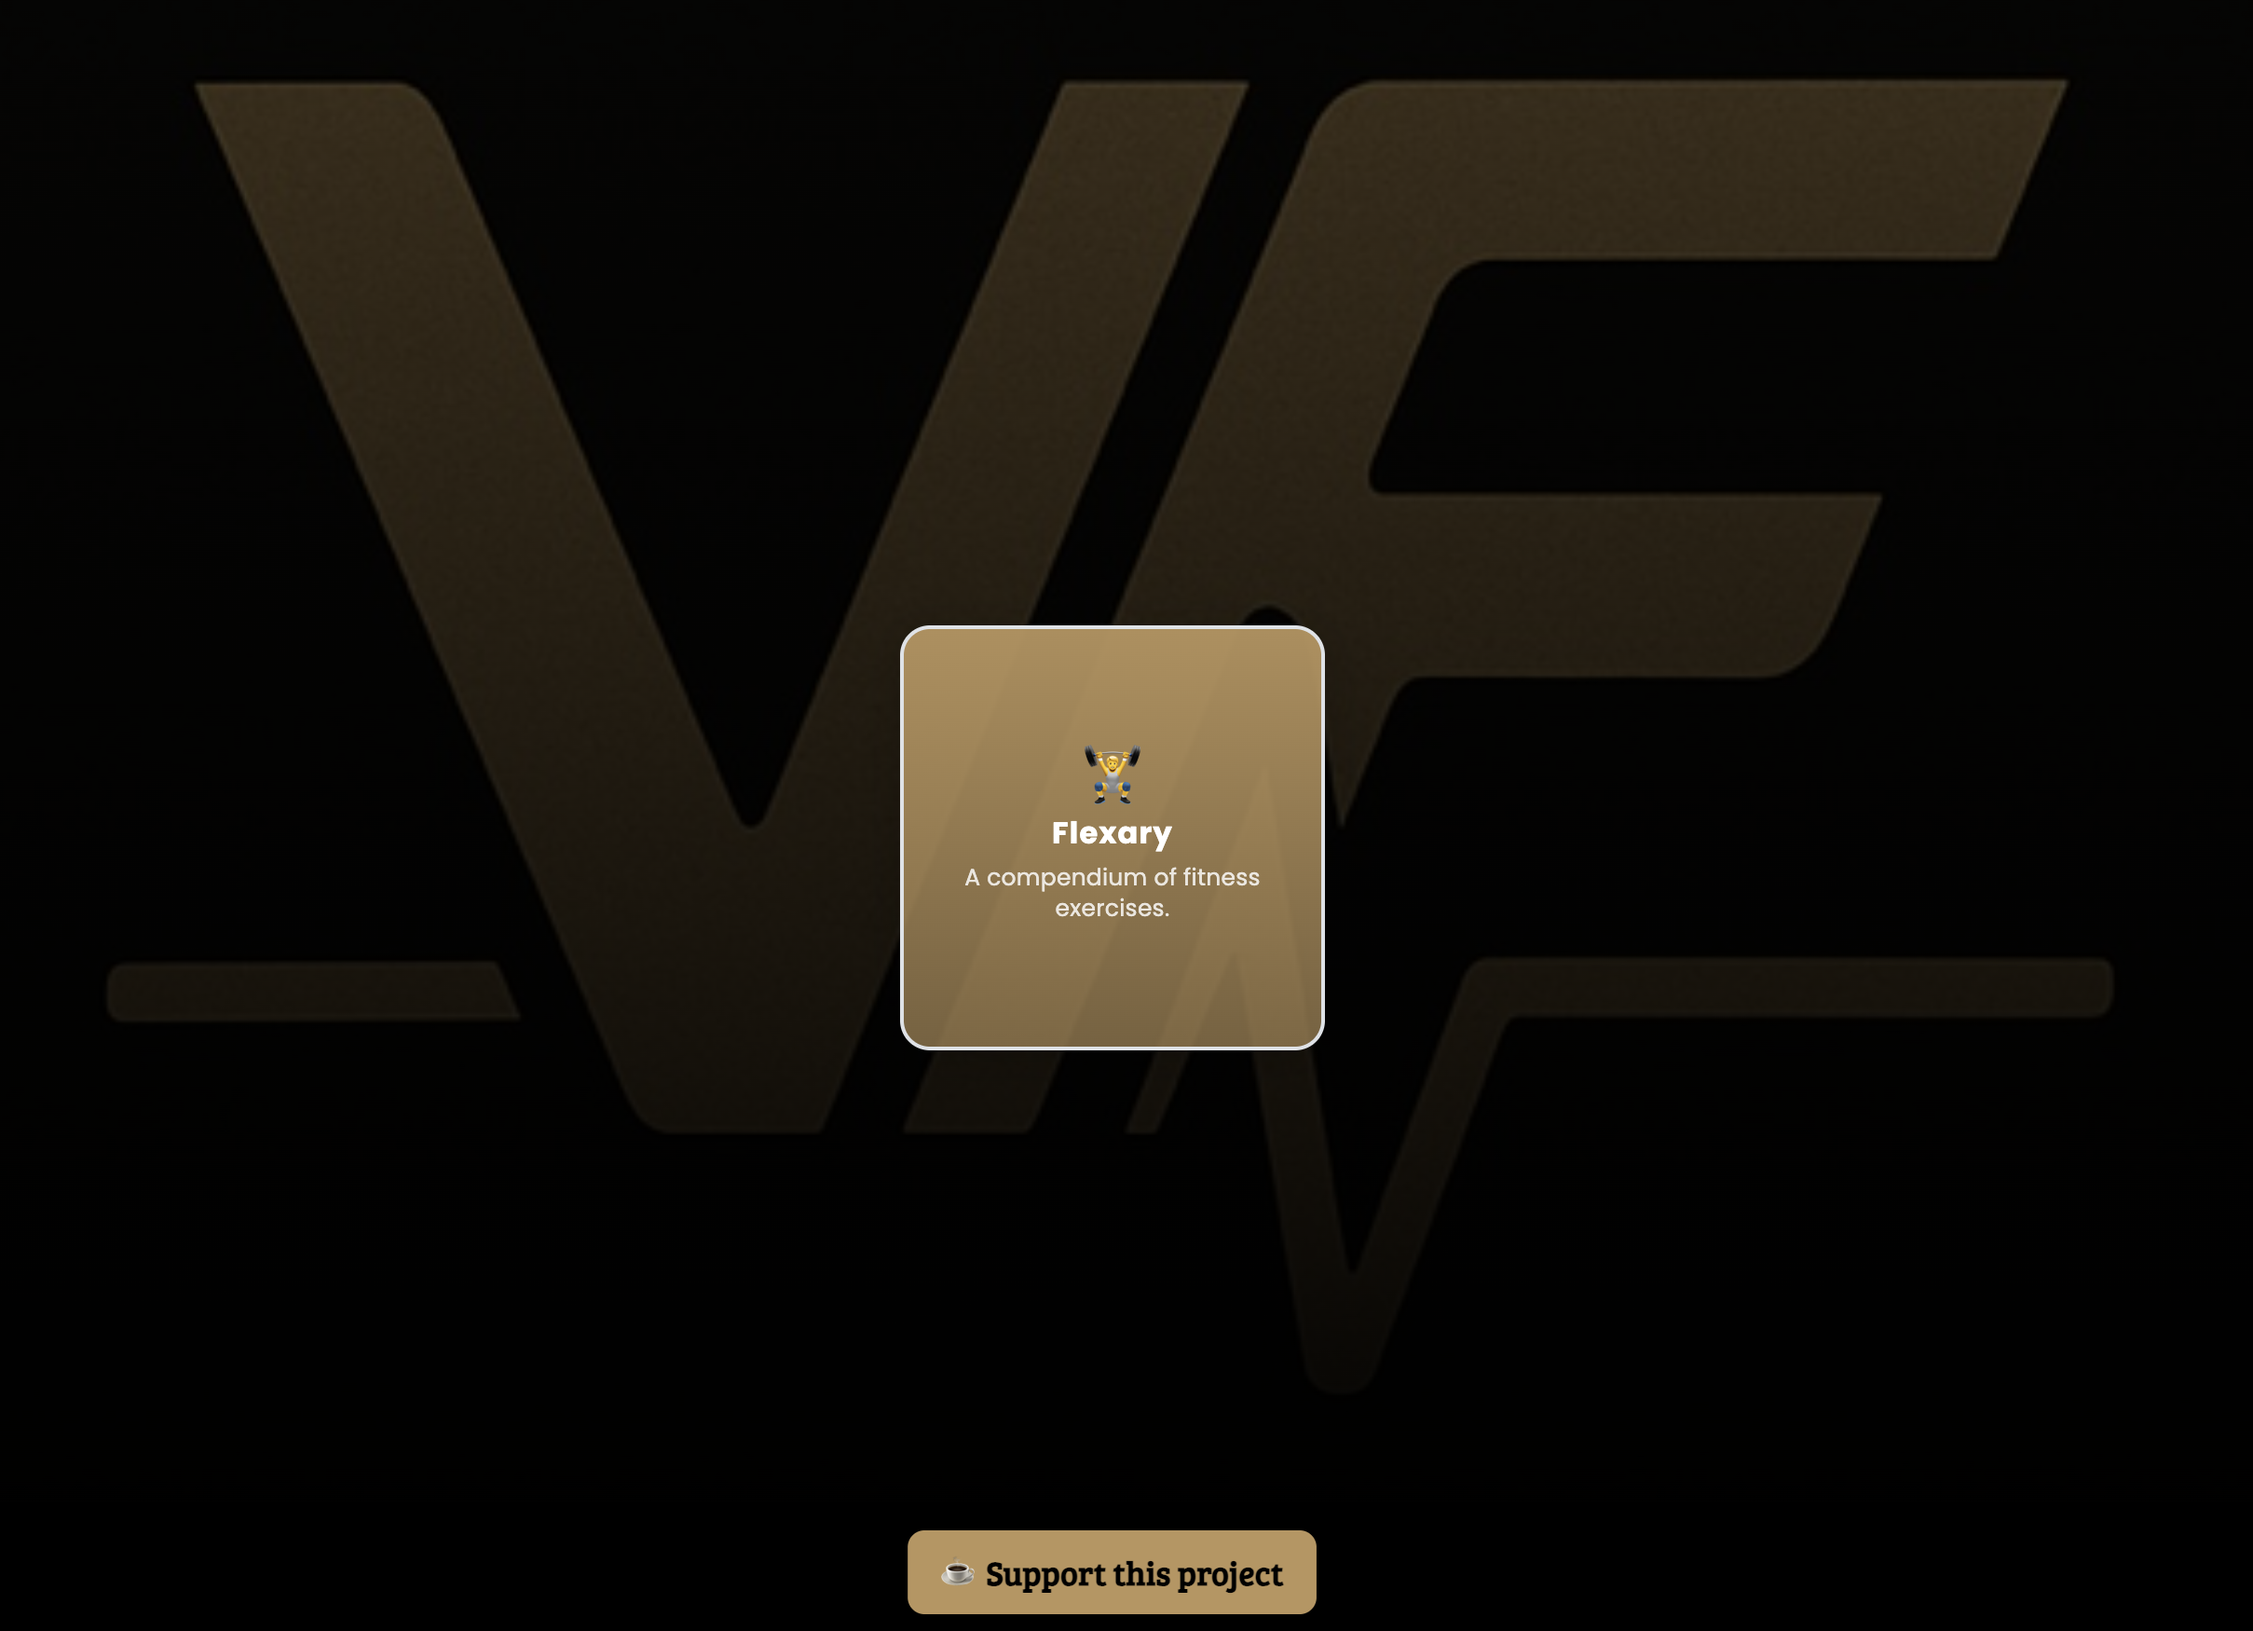
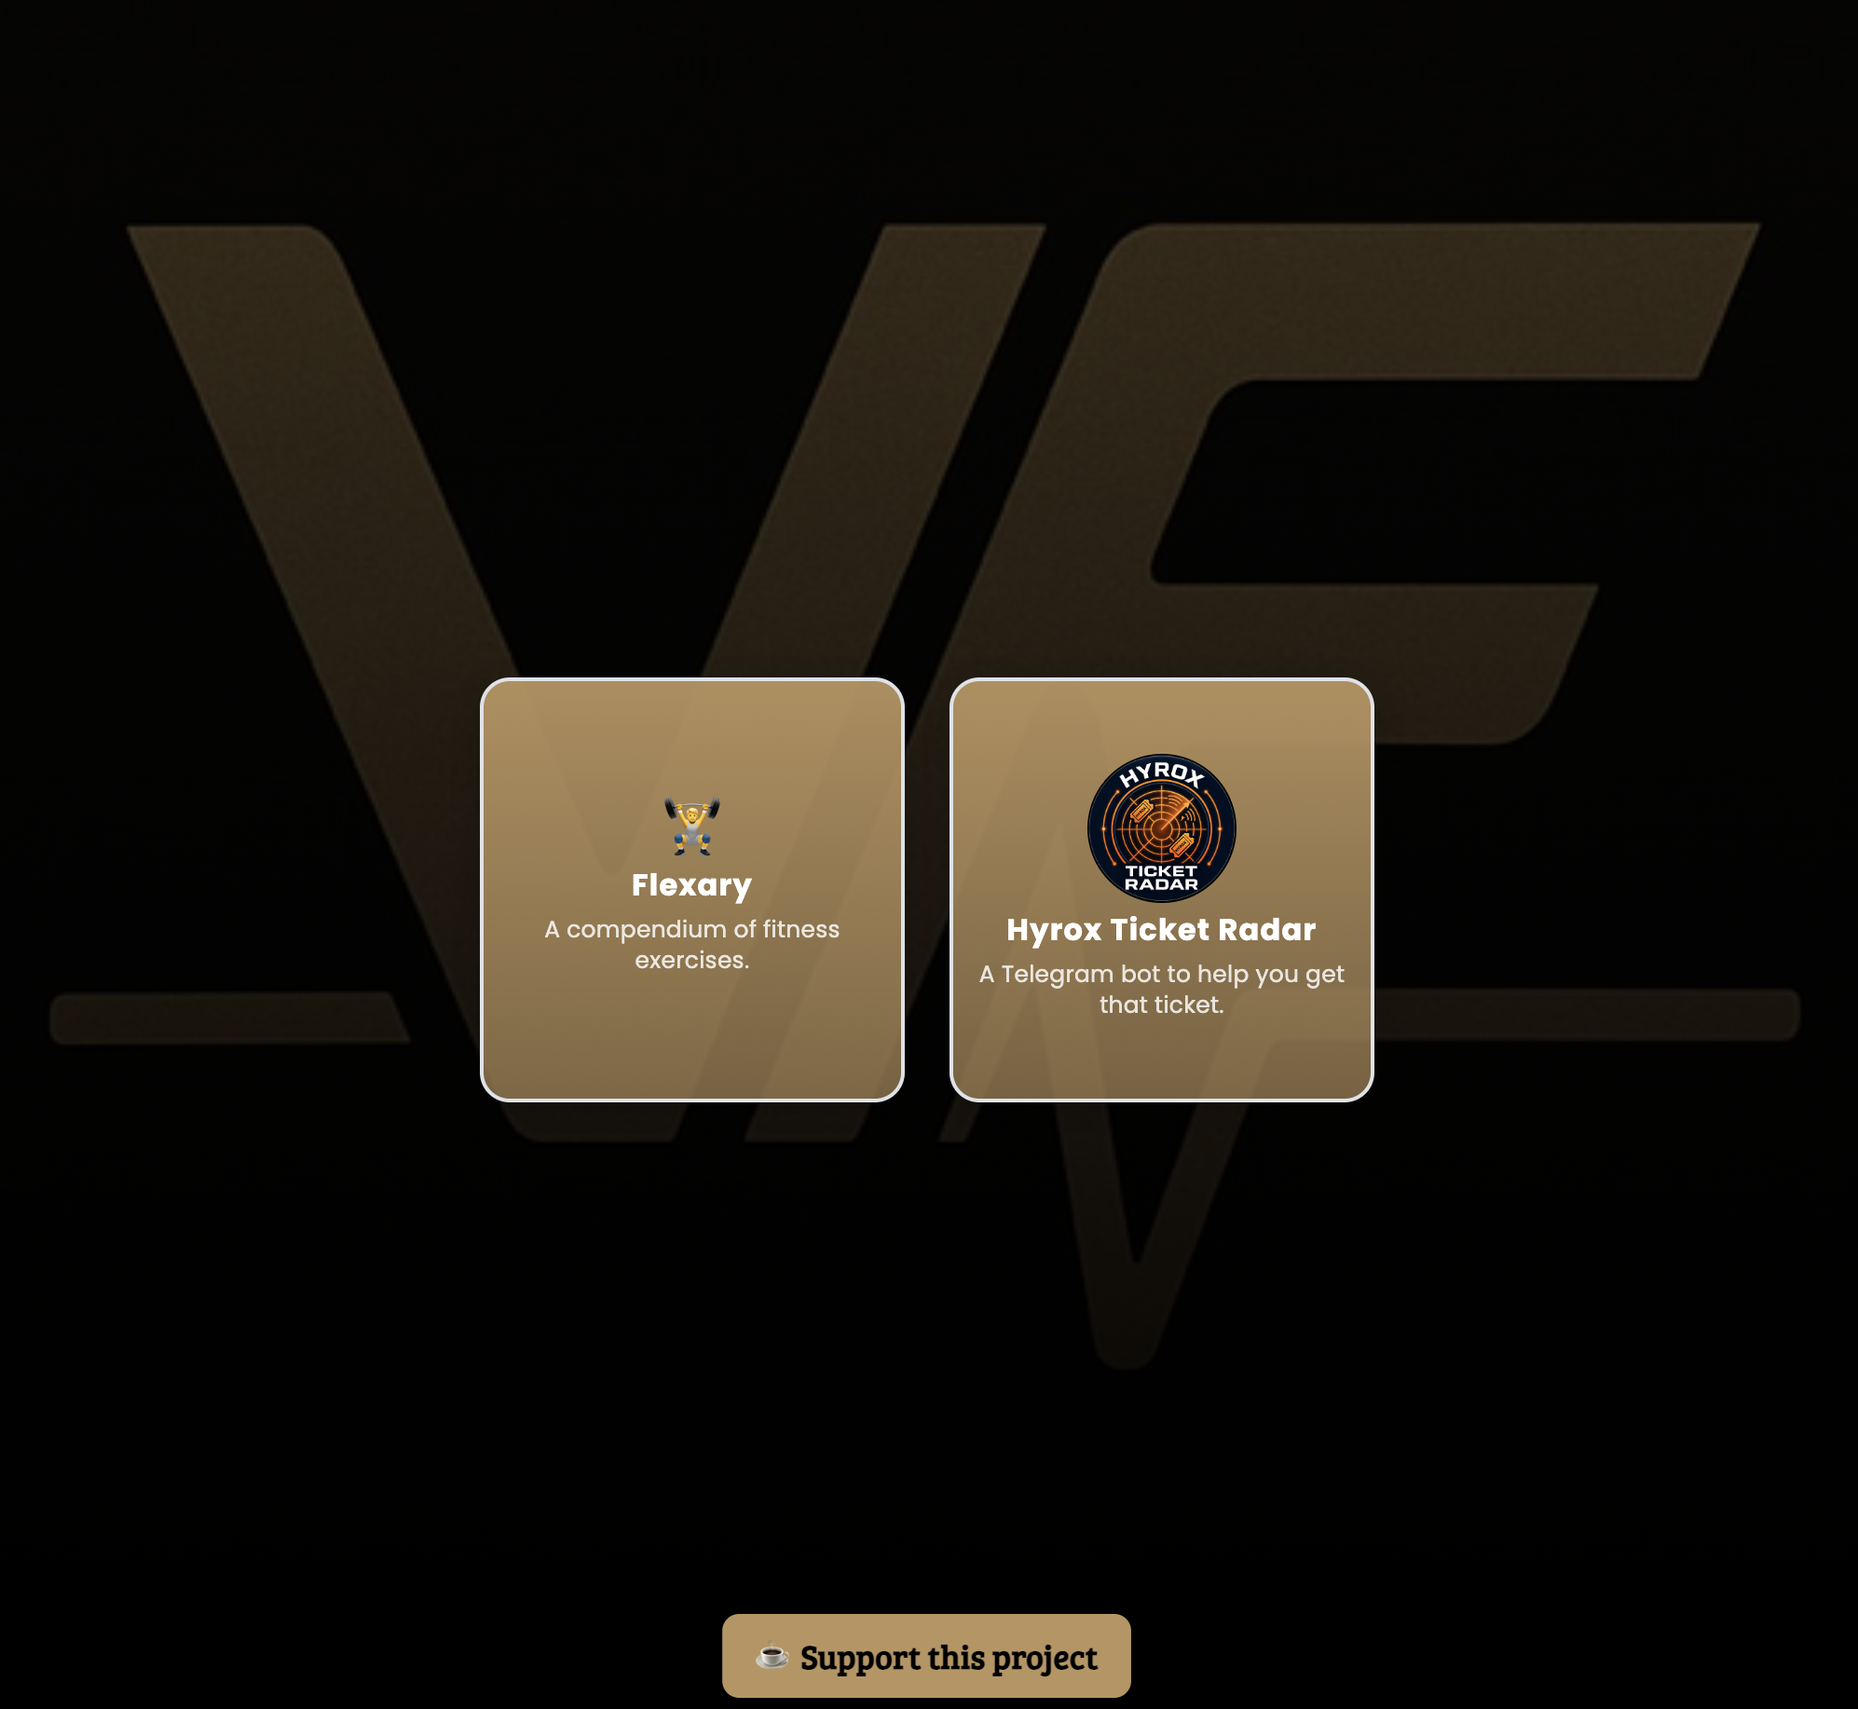
Publish blog update

Changed region(s): [[0.0622, 0.0309, 0.9639, 0.648], [0.3731, 0.9257, 0.6219, 1.0]]

diff --git a/de/portfolio/index.html b/de/portfolio/index.html
@@ -48,7 +48,7 @@ Gleichzeitig kann sich der Aufbau eines Portfolios überwältigend anfühlen —
 Gleichzeitig kann sich der Aufbau eines Portfolios überwältigend anfühlen — besonders am Anfang.">
   <meta itemprop="datePublished" content="2024-09-07T00:00:00+00:00">
   <meta itemprop="dateModified" content="2024-09-07T00:00:00+00:00">
-  <meta itemprop="wordCount" content="720">
+  <meta itemprop="wordCount" content="652">
   <meta itemprop="image" content="https://vladflore.tech/">
 
   <meta name="twitter:card" content="summary_large_image">
@@ -255,7 +255,7 @@ Gleichzeitig kann sich der Aufbau eines Portfolios überwältigend anfühlen —
 <p><strong>Code Box</strong> ist eine einfache Webanwendung, mit der ich Java- und Python-Code direkt im Browser durchsuchen, bearbeiten und ausführen kann, der in einem GitHub-Repository liegt.</p>
 <ul>
 <li>
-<p>🔧 Gebaut mit HTML, CSS und JavaScript. Der Editor ist der <a href="https://microsoft.github.io/monaco-editor/" target="_blank">Monaco Editor</a>, und der Code läuft über eine Drittanbieter-API namens <a href="https://github.com/engineer-man/piston" target="_blank">Piston</a></p>
+<p>🔧 Gebaut mit HTML, CSS und JavaScript. Der Editor ist der <a href="https://microsoft.github.io/monaco-editor/" target="_blank">Monaco Editor</a>, und der Code läuft über eine Drittanbieter-API namens <a href="https://github.com/engineer-man/piston" target="_blank">Piston</a>, selbst gehostet</p>
 </li>
 <li>
 <p>🌐 <a href="http://vladflore.tech/filingcabinet/codebox/runcodebox.html" target="_blank">Hier ausprobieren</a></p>
@@ -266,21 +266,19 @@ Gleichzeitig kann sich der Aufbau eines Portfolios überwältigend anfühlen —
     <img src="/images/vladflorefit.png"  alt="Screenshot von vladflore[dot]fit"  class="left"  style="border-radius: 8px;"  />
 
 
-<p><strong>vladflore[dot]fit</strong> ist eine Sammlung von Fitness-Tools und Ressourcen, die ich im Laufe der Zeit gebaut habe. Aktuell enthält sie zwei Hauptprojekte:</p>
+<p><strong>vladflore[dot]fit</strong> ist eine Sammlung von Fitness-Tools und Ressourcen, die ich im Laufe der Zeit gebaut habe.</p>
+<h4 id="-flexary">💪 Flexary</h4>
+<p><em>Flexary</em> begann als Möglichkeit, meine Fitnessübungen zu katalogisieren. Ich wollte eine einfache, durchsuchbare Übungsbibliothek mit Bildern und Beschreibungen, um mich an die korrekte Ausführung zu erinnern. Außerdem wollte ich eigene Workouts erstellen, indem ich Übungen aus dieser Bibliothek auswähle, und diese anschließend als PDF exportieren. Weitere Features sind geplant, aber die Kernfunktionalität steht bereits.</p>
 <ul>
 <li>
 <p>🔧 Gebaut mit <a href="https://pyscript.net/" target="_blank">PyScript</a> sowie klassischem HTML, CSS und JavaScript</p>
 </li>
 <li>
-<p>🌐 <a href="https://vladflore.fit/" target="_blank">Hier ausprobieren</a></p>
+<p>🌐 <a href="https://vladflore.fit/flexary" target="_blank">Hier ausprobieren</a></p>
 </li>
 </ul>
-<h4 id="flexary">Flexary</h4>
-<p><em>Flexary</em> begann als Möglichkeit, meine Fitnessübungen zu katalogisieren. Ich wollte eine einfache, durchsuchbare Übungsbibliothek mit Bildern und Beschreibungen, um mich an die korrekte Ausführung zu erinnern. Außerdem wollte ich eigene Workouts erstellen, indem ich Übungen aus dieser Bibliothek auswähle, und diese anschließend als PDF exportieren. Weitere Features sind geplant, aber die Kernfunktionalität steht bereits.</p>
-<h4 id="schedulizr">Schedulizr</h4>
-<p><em>Schedulizr</em> ist ein Workout-Planungstool, das mir hilft, meine Trainingsroutine zu planen. Damit kann ich einen Wochenplan erstellen und Workouts bestimmten Tagen und Uhrzeiten zuordnen. Es lässt sich an verschiedene Trainingspläne und Vorlieben anpassen. Zusätzlich kann eine PDF-Version des Wochenplans erzeugt werden, und Nutzer können eigene Planungsdaten hochladen und als PDF herunterladen. Dieses Tool kann auch auf einer privaten Domain installiert werden (melde dich gern, wenn du mehr wissen möchtest).</p>
-<h4 id="my-workouts">My Workouts</h4>
-<p><em>My Workouts</em> ist eine einfache Seite, die alle meine vergangenen Workouts in einem klaren, gut lesbaren und exportierbaren Format anzeigt.</p>
+<h4 id="-hyrox-ticket-radar-telegram-bot">🎟 Hyrox Ticket Radar Telegram Bot</h4>
+<p>Finde HYROX-Rennen und erhalte Benachrichtigungen, wenn ausverkaufte Tickets wieder verfügbar sind oder nur noch wenige übrig sind. Nur auf Einladung.</p>
 <h3 id="4-git-animated">4. Git Animated</h3>
 <p><strong>Git Animated</strong> ist eine Reihe von Artikeln und Videos, die ich erstellt habe, um sichtbar zu machen, was intern passiert, wenn Git-Befehle ausgeführt werden. Der spannende Teil war es, mit <a href="https://www.manim.community/" target="_blank">Manim</a> (einer Python-Bibliothek für mathematische Animationen) zu animieren, wie sich Git in verschiedenen Situationen verhält.</p>
 <ul>

diff --git a/portfolio/index.html b/portfolio/index.html
@@ -48,7 +48,7 @@ That said, building a portfolio can feel daunting — especially when you&rsquo;
 That said, building a portfolio can feel daunting — especially when you’re just starting out.">
   <meta itemprop="datePublished" content="2024-09-07T00:00:00+00:00">
   <meta itemprop="dateModified" content="2024-09-07T00:00:00+00:00">
-  <meta itemprop="wordCount" content="789">
+  <meta itemprop="wordCount" content="687">
   <meta itemprop="image" content="https://vladflore.tech/">
 
   <meta name="twitter:card" content="summary_large_image">
@@ -255,7 +255,7 @@ That said, building a portfolio can feel daunting — especially when you’re j
 <p><strong>Code Box</strong> is a simple web application that allows me to browse, edit, and run Java and Python code stored in a GitHub repository directly from the browser.</p>
 <ul>
 <li>
-<p>🔧 Built using HTML, CSS and JavaScript. The code editor is the <a href="https://microsoft.github.io/monaco-editor/" target="_blank">Monaco Editor</a>, and the code is run via a third party API, called <a href="https://github.com/engineer-man/piston" target="_blank">Piston</a></p>
+<p>🔧 Built using HTML, CSS and JavaScript. The code editor is the <a href="https://microsoft.github.io/monaco-editor/" target="_blank">Monaco Editor</a>, and the code is run via a third party API, called <a href="https://github.com/engineer-man/piston" target="_blank">Piston</a>, self-hosted</p>
 </li>
 <li>
 <p>🌐 <a href="http://vladflore.tech/filingcabinet/codebox/runcodebox.html" target="_blank">Try it out</a></p>
@@ -266,21 +266,19 @@ That said, building a portfolio can feel daunting — especially when you’re j
     <img src="/images/vladflorefit.png"  alt="Screenshot of vladflore[dot]fit"  class="left"  style="border-radius: 8px;"  />
 
 
-<p><strong>vladflore[dot]fit</strong> is a collection of fitness-related tools and resources I’ve built over time. Currently, it hosts two main projects:</p>
+<p><strong>vladflore[dot]fit</strong> is a collection of fitness-related tools and resources I’ve built over time.</p>
+<h4 id="-flexary">💪 Flexary</h4>
+<p><em>Flexary</em> started as a way to catalog my fitness exercises. I wanted a simple, searchable library of exercises with images and descriptions to help me remember how to perform them correctly. Additionally, I wanted to be able to create custom workouts by selecting exercises from this library, which I could then export to a PDF for easy reference. There are a couple of more features planned, but the core functionality is already in place.</p>
 <ul>
 <li>
 <p>🔧 Built with <a href="https://pyscript.net/" target="_blank">PyScript</a> and good old HTML, CSS and JavaScript</p>
 </li>
 <li>
-<p>🌐 <a href="https://vladflore.fit/" target="_blank">Try it out</a></p>
+<p>🌐 <a href="https://vladflore.fit/flexary" target="_blank">Try it out</a></p>
 </li>
 </ul>
-<h4 id="flexary">Flexary</h4>
-<p><em>Flexary</em> started as a way to catalog my fitness exercises. I wanted a simple, searchable library of exercises with images and descriptions to help me remember how to perform them correctly. Additionally, I wanted to be able to create custom workouts by selecting exercises from this library, which I could then export to a PDF for easy reference. There are a couple of more features planned, but the core functionality is already in place.</p>
-<h4 id="schedulizr">Schedulizr</h4>
-<p><em>Schedulizr</em> is a workout scheduling tool that helps me plan my fitness routine. It allows me to create a weekly schedule and assign workouts to specific days and times. It can be customized to fit various types of workout plans and preferences. Additionally, it can generate a PDF version of the weekly schedule for easy access, while also allowing users to upload their own schedule data and download it as a PDF for convenience. This tool can be installed on a personal domain for private use (get in touch with me if you want to know more).</p>
-<h4 id="my-workouts">My Workouts</h4>
-<p><em>My Workouts</em> is a simple page that lists all my past workouts in a clean, easy-to-read, exportable format.</p>
+<h4 id="-hyrox-ticket-radar-telegram-bot">🎟 Hyrox Ticket Radar Telegram Bot</h4>
+<p>Find HYROX races and get alerts when sold-out tickets reopen or run low. Invite-only.</p>
 <h3 id="4-git-animated">4. Git Animated</h3>
 <p><strong>Git Animated</strong> is a series of posts and videos I created to help visualize what happens under the hood when running Git commands. The fun part was animating how Git behaves in different scenarios using <a href="https://www.manim.community/" target="_blank">Manim</a>, a Python library for mathematical animations.</p>
 <ul>
